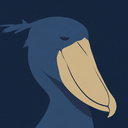
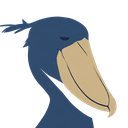
fix: アイコン透過化と Extension context invalidated エラーの抑制 (#290)
* fix: 拡張アイコンを透過 PNG 化（紺背景の焼き込みを除去）

* fix: Extension context invalidated 時のデバッグログ失敗を黙って捨てる

diff --git a/src/utils/debug_log.ts b/src/utils/debug_log.ts
@@ -44,6 +44,16 @@ function redactSensitiveData(
   return value;
 }
 
+function isExtensionContextInvalidated(error: unknown): boolean {
+  // After the extension is reloaded or updated, content scripts left in
+  // already-open pages lose their context and every chrome.* call throws
+  // this error. It is expected and unactionable, so callers stay silent.
+  return (
+    error instanceof Error &&
+    error.message.includes("Extension context invalidated")
+  );
+}
+
 function safeStringify(value: unknown): string {
   try {
     const json: string | undefined = JSON.stringify(value);
@@ -111,7 +121,9 @@ export async function debugLog(
       return;
     }
   } catch (error) {
-    console.error("Failed to check debug mode:", error);
+    if (!isExtensionContextInvalidated(error)) {
+      console.error("Failed to check debug mode:", error);
+    }
     return;
   }
 
@@ -137,7 +149,9 @@ export async function debugLog(
       });
     });
   } catch (error) {
-    console.error("Failed to save debug log to storage:", error);
+    if (!isExtensionContextInvalidated(error)) {
+      console.error("Failed to save debug log to storage:", error);
+    }
   }
 }
 

diff --git a/tests/utils/debug_log.test.ts b/tests/utils/debug_log.test.ts
@@ -160,4 +160,29 @@ describe("utils/debug_log", () => {
 
     await expect(clearDebugLogs()).rejects.toThrow("storage unavailable");
   });
+
+  it("拡張コンテキストが無効化されているときは失敗ログを出さずに黙って終わる", async () => {
+    const consoleErrorSpy = vi
+      .spyOn(console, "error")
+      .mockImplementation(() => {});
+    global.chrome = {
+      storage: {
+        local: {
+          get: vi.fn(() => {
+            throw new Error("Extension context invalidated.");
+          }),
+          remove: vi.fn(),
+          set: vi.fn(),
+        },
+      },
+    } as any;
+
+    await expect(
+      debugLog("context", "some event", undefined, "debug")
+    ).resolves.toBeUndefined();
+    expect(consoleErrorSpy).not.toHaveBeenCalledWith(
+      "Failed to check debug mode:",
+      expect.anything()
+    );
+  });
 });
